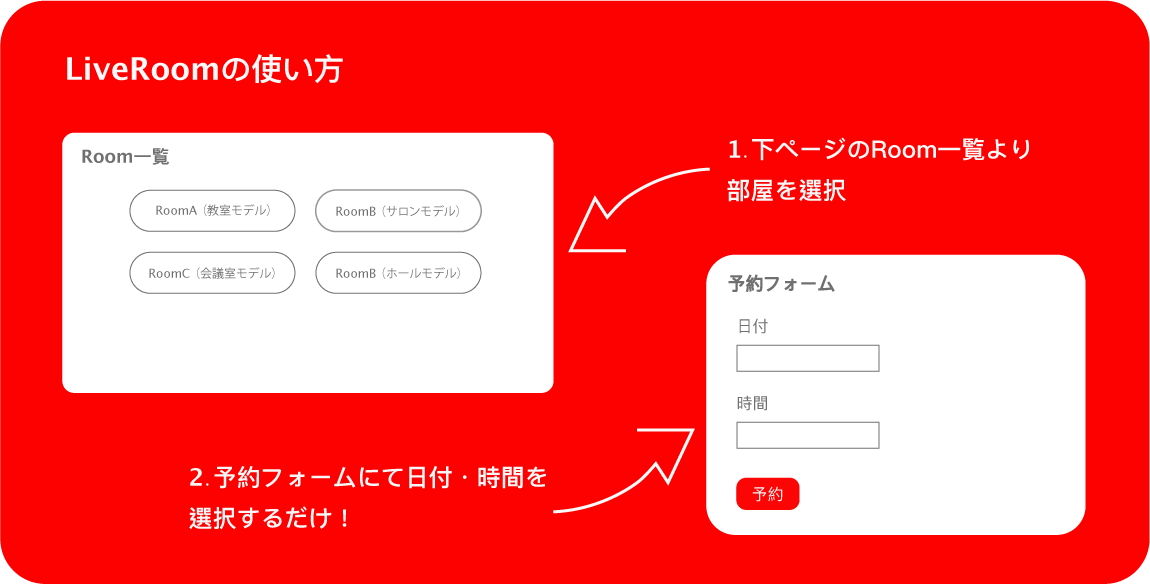
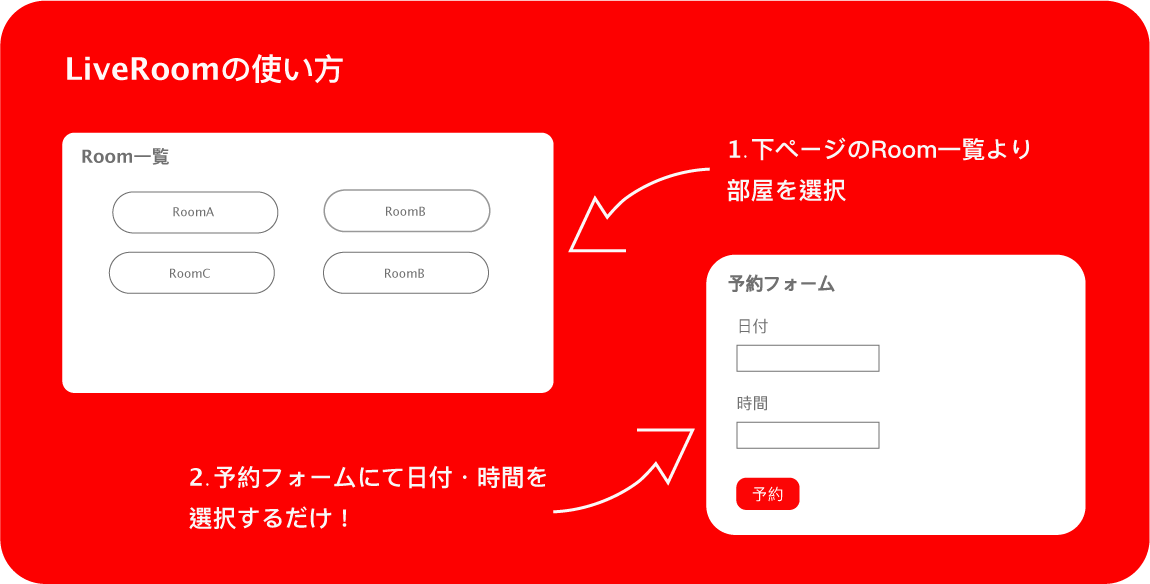
2021/11/11

diff --git a/public/css/room.css b/public/css/room.css
@@ -24,10 +24,6 @@ section .liveList p {
   margin-bottom: 0;
 }
 
-section .liveList .state {
-  font-size: 12px
-}
-
 .liveTitle {
   margin-top: 10px;
   display: flex;
@@ -86,11 +82,6 @@ section .reserveList ul {
 
 .sheet img {
   width: 100%;
-}
-
-.saron img {
-  width: 250px;
-  height: 430px;
 }
 
 .sheet p {

diff --git a/public/css/style.css b/public/css/style.css
@@ -58,6 +58,20 @@ article h2 {
   padding-bottom: 20px;
 }
 
+article .roomTitle {
+  align-items: center;
+  text-align: center;
+}
+
+article .roomTitle a {
+  font-size: 18px;
+}
+
+article .samples {
+  border-bottom: 1px solid #707070;
+  padding-bottom: 50px;
+}
+
 article .rooms h2 {
   font-size: 24px;
 }

diff --git a/resources/views/auth/roomHome.blade.php b/resources/views/auth/roomHome.blade.php
@@ -26,18 +26,31 @@
     </div>
   </section>
   <article>
-    <h2>Room一覧</h2>
+    <div class="d-flex justify-content-between roomTitle">
+      <h2>Room一覧</h2>
+      <a href="{{ route('roomForm') }}">新しい部屋を作成</a>
+    </div>
     <p>＊以下のRoomはサンプルです</p>
-    <div class="w-100 mt-5 rooms">
-      <ul class="d-flex justify-content-around">
-        <li class=""><a href="/rooms/RoomA">RoomA</a></li>
-        <li class=""><a href="/rooms/RoomB">RoomB</a></li>
-      </ul>      
-      <ul class="d-flex justify-content-around">
-        <li class=""><a href="/rooms/RoomC">RoomC</a></li>
-        <li class=""><a href="/rooms/RoomD">RoomD</a></li>
+    <div class="rooms samples">
+      <ul class="row justify-content-around">
+        <li class="col-5 mt-4"><a href="/rooms/RoomA">RoomA</a></li>
+        <li class="col-5 mt-4"><a href="/rooms/RoomB">RoomB</a></li>
+        <li class="col-5 mt-4"><a href="/rooms/RoomC">RoomC</a></li>
+        <li class="col-5 mt-4"><a href="/rooms/RoomD">RoomD</a></li>
       </ul>
-  </div>
+    </div>
+    <div class="rooms mt-4">
+      <p>＊新しい部屋の追加・削除のデモンストレーションです。<br>
+        予約機能を体験したい方は上記のサンプルルームでお願いします。
+      </p>
+      <ul class="row justify-content-around">
+        @if(isset($reserves))
+        @foreach($reserves as $reserve)    
+        <li class="col-5 mt-4"><a>{{ $reserve }}</a></li>
+        @endforeach
+        @endif
+      </ul>
+    </div>
   </article>
   <footer>
     @include('auth.footer')

diff --git a/resources/views/auth/roomForm.blade.php b/resources/views/auth/roomForm.blade.php
@@ -1,0 +1,32 @@
+<!DOCTYPE html>
+<html lang="ja">
+<head>
+  <meta charset="UTF-8">
+  <meta name="viewport" content="width=device-width, initial-scale=1.0">
+  <meta http-equiv="X-UA-Compatible" content="ie=edge">
+  <link href="{{ asset('/css/app.css') }}" rel="stylesheet">
+  <link rel="stylesheet" href="{{ asset('/css/style.css') }}">
+  <link rel="stylesheet" href="{{ asset('/css/header.css') }}">
+  <link rel="stylesheet" href="{{ asset('/css/footer.css') }}">
+  <script src="{{ asset('/js/app.js') }}"></script>
+  <script src="https://kit.fontawesome.com/fe2ae2a4f6.js" crossorigin="anonymous"></script>
+  <title>LiveRoom</title>
+</head>
+<body>
+  <header>
+    @include('auth.header')
+  </header>
+  <article>
+    <form action="{{ route('newRoom') }}" method="post">
+      @csrf
+      <div class="mb-3">
+        <label for="exampleInputEmail1" class="form-label">Room Name</label>
+        <input type="text" name="name" class="form-control" id="exampleInputEmail1" aria-describedby="emailHelp">
+      </div>
+      <div class="mb-3">
+        <label for="exampleInputPassword1" class="form-label">Youtube URL</label>
+        <input type="text" name="url" class="form-control" id="exampleInputPassword1">
+      </div>
+      <button type="submit" class="btn btn-primary">作成</button>
+    </form>
+  </article>

diff --git a/resources/views/auth/rooms/RoomC.blade.php b/resources/views/auth/rooms/RoomC.blade.php
@@ -19,11 +19,10 @@
   </header>
   <section>
     <div class="liveList">
-        <img src="{{ asset('/img/meetingRoom.png') }}" alt="ミーティングルーム">
-        <p class="state">＊写真はイメージです（写真ACより引用）</p>
+        <img src="{{ asset('/img/roomA.png') }}" alt="ミーティングルーム">
         <div class="liveTitle">
-          <p>RoomC（会議室モデル）</p>
-          <button id="enter" class="btn btn-danger px-2 my-2">入室: 0</button><p>/10</p>
+          <p>RoomC</p>
+          <button id="enter" class="btn btn-danger px-2 my-2">入室: 0</button><p>/44</p>
           <button id="leave" class="btn btn-danger px-3 my-2">退室</button>
         </div>
     </div>
@@ -52,7 +51,7 @@
   </section>
   <div class="sheet">
     <p>座席表</p>
-    <img src="{{ asset('/img/meetingSheet.png')}}" alt="">
+    <img src="{{ asset('/img/room_503.png')}}" alt="">
   </div>
   <footer>
     @include('auth.footer')
@@ -62,7 +61,7 @@
   var enterButton = document.getElementById("enter"),
     enterCount = 0;
   enterButton.onclick = function() {
-    if(enterCount <= 9) {
+    if(enterCount <= 43) {
     enterCount += 1;
     enterButton.innerHTML = "入室: " + enterCount;
     }

diff --git a/resources/views/auth/rooms/RoomD.blade.php b/resources/views/auth/rooms/RoomD.blade.php
@@ -19,11 +19,10 @@
   </header>
   <section>
     <div class="liveList">
-      <img src="{{ asset('/img/holeRoom.png') }}" alt="ホール">
-      <p class="state">＊写真はイメージです（写真ACより引用）</p>
+      <img src="{{ asset('/img/roomA.png') }}" alt="ホール">
         <div class="liveTitle">
-          <p>RoomD（ホールモデル）</p>
-          <button id="enter" class="btn btn-danger px-2 my-2">入室: 0</button><p>/75</p>
+          <p>RoomD</p>
+          <button id="enter" class="btn btn-danger px-2 my-2">入室: 0</button><p>/36</p>
           <button id="leave" class="btn btn-danger px-3 my-2">退室</button>
         </div>
     </div>
@@ -52,7 +51,7 @@
   </section>
   <div class="sheet">
     <p>座席表</p>
-    <img src="{{ asset('/img/holeSheet.png')}}" alt="">
+    <img src="{{ asset('/img/room_504.png')}}" alt="">
   </div>
   <footer>
     @include('auth.footer')
@@ -62,7 +61,7 @@
   var enterButton = document.getElementById("enter"),
     enterCount = 0;
   enterButton.onclick = function() {
-    if(enterCount <= 74) {
+    if(enterCount <= 35) {
     enterCount += 1;
     enterButton.innerHTML = "入室: " + enterCount;
     }

diff --git a/resources/views/auth/rooms/RoomB.blade.php b/resources/views/auth/rooms/RoomB.blade.php
@@ -19,11 +19,10 @@
   </header>
   <section>
     <div class="liveList">
-      <img src="{{ asset('/img/saronRoom.png') }}" alt="サロン">
-      <p class="state">＊写真はイメージです（写真ACより引用）</p>
+      <img src="{{ asset('/img/roomA.png') }}" alt="サロン">
       <div class="liveTitle">
-        <p>RoomB（サロンモデル）</p>
-        <button id="enter" class="btn btn-danger px-2 my-2">入室: 0</button><p>/10</p>
+        <p>RoomB</p>
+        <button id="enter" class="btn btn-danger px-2 my-2">入室: 0</button><p>/38</p>
         <button id="leave" class="btn btn-danger px-3 my-2">退室</button>
       </div>
     </div>
@@ -52,7 +51,7 @@
   </section>
   <div class="sheet saron">
     <p>座席表</p>
-    <img src="{{ asset('/img/saronSheet.png')}}" alt="">
+    <img src="{{ asset('/img/room_502.png')}}" alt="">
   </div>
   <footer>
     @include('auth.footer')
@@ -62,7 +61,7 @@
   var enterButton = document.getElementById("enter"),
     enterCount = 0;
   enterButton.onclick = function() {
-    if(enterCount <= 9) {
+    if(enterCount <= 37) {
     enterCount += 1;
     enterButton.innerHTML = "入室: " + enterCount;
     }

diff --git a/app/Http/Controllers/Controller.php b/app/Http/Controllers/Controller.php
@@ -28,6 +28,11 @@ class Controller extends BaseController
         return view('auth.roomHome');
     }
 
+    public function roomForm()
+    {
+        return view('auth.roomForm');
+    }
+
     public function showAbout()
     {
         return view('auth.about');
@@ -129,6 +134,31 @@ class Controller extends BaseController
         $reserves = DB::table('room504s')->whereDate('reserved_at', '=', $date)->pluck('reserved_time');
 
         return view('auth.rooms.RoomD', [
+            'reserves' => $reserves,
+        ]);
+    }
+
+    /**
+     * Room新規作成
+     */
+    public function newRoom(Request $request) {
+        $data = $request->all();
+
+        \DB::table('rooms')->insert([
+            'name' => $data['name'],
+            'url' => $data['url'],
+        ]);
+
+        return redirect('/roomHome');
+    }
+
+    /**
+     * Room情報取得
+     */
+    public function getRoom() {
+        $reserves = DB::table('rooms')->pluck('name');
+
+        return view('auth.roomHome', [
             'reserves' => $reserves,
         ]);
     }

diff --git a/routes/web.php b/routes/web.php
@@ -18,6 +18,7 @@ use App\Http\Livewire\Counter;
 */
 
 Route::get('/roomHome', [Controller::class, 'rooms'])->name('rooms');
+Route::get('/roomForm', [Controller::class, 'roomForm'])->name('roomForm');
 Route::get('/about', [Controller::class, 'showAbout'])->name('showAbout');
 
 /**
@@ -35,6 +36,16 @@ Route::post('/rooms/RoomA',[Controller::class, 'createReserveRoomA'])->name('cre
 Route::post('/rooms/RoomB',[Controller::class, 'createReserveRoomB'])->name('createReserveRoomB');
 Route::post('/rooms/RoomC',[Controller::class, 'createReserveRoomC'])->name('createReserveRoomC');
 Route::post('/rooms/RoomD',[Controller::class, 'createReserveRoomD'])->name('createReserveRoomD');
+
+/**
+ * Room取得
+ */
+Route::get('/roomHome',[Controller::class, 'getRoom'])->name('getRoom');
+
+/**
+ * Room新規作成
+ */
+Route::post('/auth/roomHome',[Controller::class, 'newRoom'])->name('newRoom');
 
 /**
  * ログインルート

diff --git a/resources/views/auth/header.blade.php b/resources/views/auth/header.blade.php
@@ -11,6 +11,9 @@
         <li class="nav-item active">
           <a class="nav-link" href="/roomHome">ホーム <span class="sr-only">(現位置)</span></a>
         </li>
+        <li class="nav-item">
+          <a href="{{ route('roomForm') }}">新しい部屋を作成</a>
+        </li>
         <li class="nav-item dropdown">
           <a href="#" class="nav-link dropdown-toggle" id="navbarDropdown" role="button" data-toggle="dropdown" aria-haspopup="true" aria-expanded="false">
             Room一覧

diff --git a/database/migrations/2021_11_02_180850_create_sheet_counters_table.php b/database/migrations/2021_11_02_180850_create_sheet_counters_table.php
@@ -13,9 +13,10 @@ class CreateSheetCountersTable extends Migration
      */
     public function up()
     {
-        Schema::create('sheet_counters', function (Blueprint $table) {
+        Schema::create('rooms', function (Blueprint $table) {
             $table->id();
-            $table->
+            $table->char('name', 100);
+            $table->char('url', 100);
             $table->timestamps();
         });
     }

diff --git a/resources/views/auth/rooms/RoomA.blade.php b/resources/views/auth/rooms/RoomA.blade.php
@@ -21,7 +21,7 @@
     <div class="liveList">
         <img src="{{ asset('/img/roomA.png') }}" alt="roomA">
         <div class="liveTitle">
-          <p>RoomA（教室モデル）</p>
+          <p>RoomA</p>
           <button id="enter" class="btn btn-danger px-2 my-2">入室: 0</button><p>/40</p>
           <button id="leave" class="btn btn-danger px-3 my-2">退室</button>
         </div>
